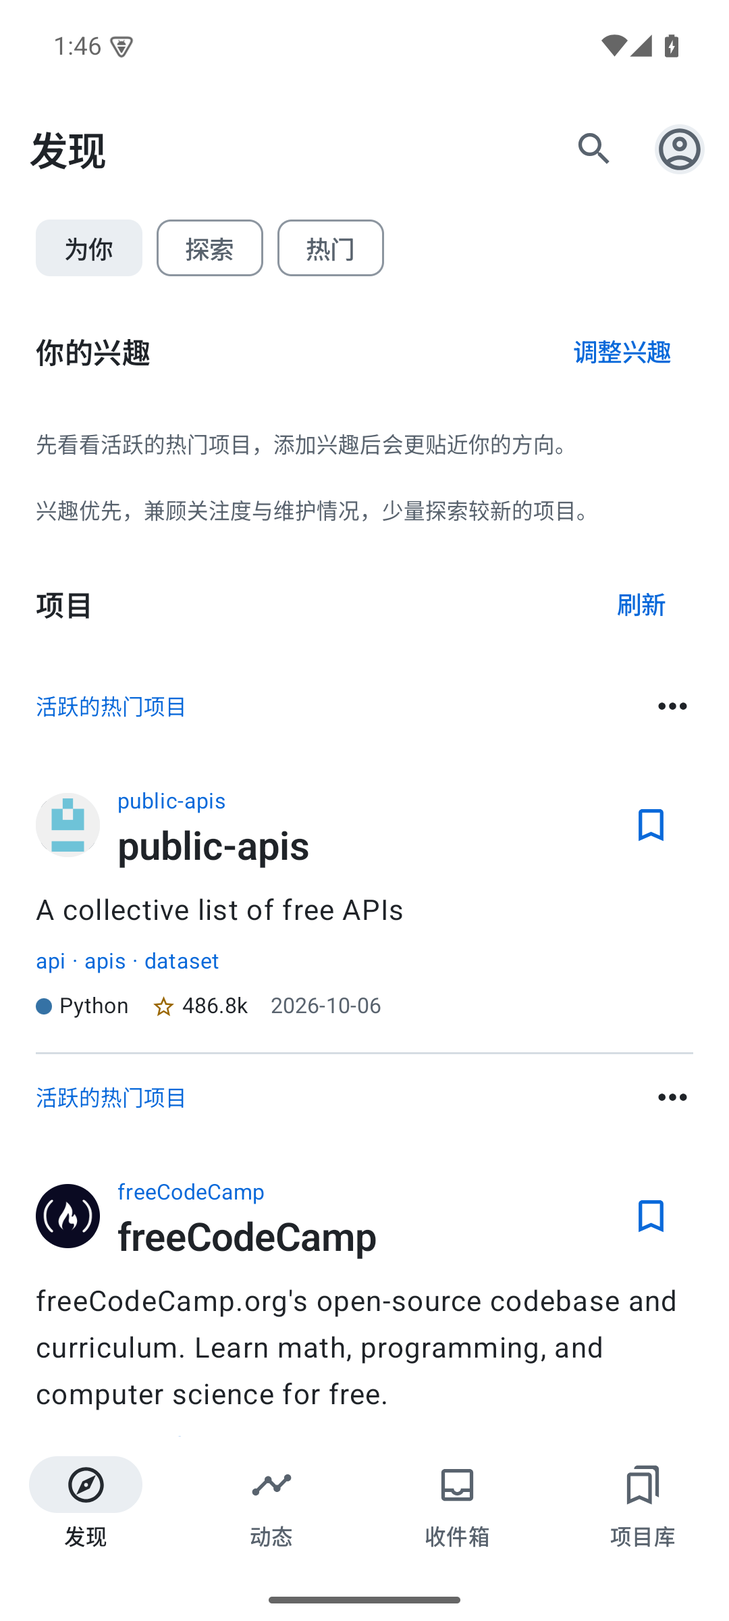
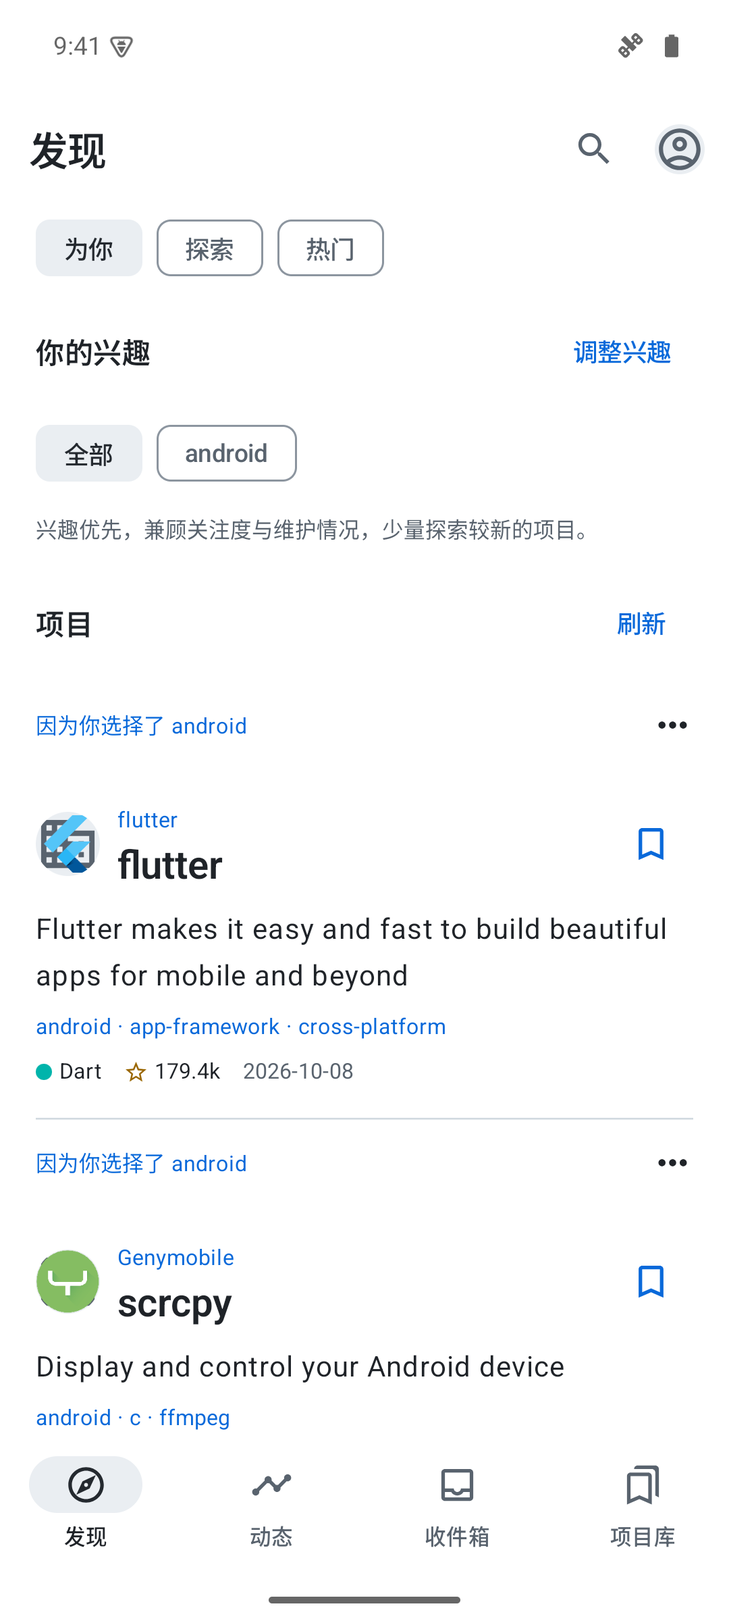
docs: rewrite product README and refresh app screenshots [skip ci]

diff --git a/README改写审阅稿.md b/README改写审阅稿.md
@@ -1,0 +1,150 @@
+# README 改写方案与审阅稿
+
+日期：2026-10-08。本文保留审阅时的写作方案和候选文案。用户随后明确授权“写吧，截图你自己跑自己截吧，然后直接上传 readme 就行了”；正式正文见根目录 [README](./README.md)，本轮执行见文末。
+
+## 写作方向
+
+RepoRove 的整体定位应先讲清楚：**一个用于发现、浏览和管理 GitHub 项目的 Android 客户端。**
+
+优先面向经常找开源项目、阅读介绍、收藏项目和下载软件的人，同时向需要查看仓库活动、通知、Issue、PR 和构建情况的人说明已有能力。文档与代码阅读、离线保存、可调整的布局是产品特色；这些特色应该放在完整的 GitHub 使用流程里介绍。
+
+现在的 README 开头能说明一部分用途，但正文受最近修复影响过重：
+
+- 阅读细节占了多个段落，搜索没有独立介绍，动态和收件箱挤在结尾的功能段里。首次访问者很容易只把它理解为 README 阅读器。
+- “章节跳转、返回恢复、复制整个文件、分段显示”等内容主要回答已有用户的问题，缺少让新用户理解整体用途的层次。
+- 六张截图中，README、文件树、代码占了三张，加上仓库概览共四张偏向阅读；项目库、搜索、动态没有展示，图片也放大了这种失衡。
+- “AI 已移除”、本轮机型验收状态、开发签名和固定提交等信息混入产品介绍，让介绍像一次交付说明。
+
+新的 README 应让读者依次知道：它是什么 → 手机里大概长什么样 → 能帮我做哪些事 → 怎么安装和开始使用 → 当前范围与反馈方式。
+
+## 内容结构与权重
+
+| 位置 | 要回答的问题 | 写法 |
+| --- | --- | --- |
+| 首屏 | 这是什么，我为什么要看下去？ | 一句定位、两句用途，紧接下载入口；Android 10+、预览版、MIT 作为少量状态信息 |
+| 三张主要截图 | 这是个什么样的 App？ | 发现、仓库、项目库，覆盖寻找、了解和回访；每张用简短的页面说明 |
+| 主要功能 | 我能用它做什么？ | 六组：发现与搜索、仓库与阅读、收藏与回访、动态与通知、下载与离线、外观与布局 |
+| 开始使用 | 安装后能不能直接用？ | APK 下载；公开浏览可不登录；账号功能的 PAT 登录另有指南 |
+| 当前阶段 | 现在适不适合我？ | 简短说明预览状态、以浏览和阅读为主、现有登录方式；具体边界引导到指南 |
+| 反馈与贡献 | 怎么参与？ | Issues、贡献指南、更新记录，正文不放开发过程和内部验收记录 |
+| 许可 | 可否使用和修改？ | MIT 与第三方许可链接 |
+
+主文案以日常任务为单位，避免按最近的版本改动组织。六组功能采用相同长度和语气，每组说明用途与代表性能力，不逐项讲按钮。目标是让读者扫一遍就能知道发现、搜索、仓库、项目库、动态、收件箱和设置分别承担什么。
+
+## 截图安排
+
+- 首轮三张主图建议为“发现 / 仓库 / 项目库”。现有发现和仓库图可复用；项目库图应在方案确认后从实际 App 补截，不用设计稿冒充。
+- 阅读和离线代码各保留一张，可放在对应功能附近，或者收入使用指南。主题对照可在有合适实际截图后补充，不作为当前重写的前置条件。
+- 不把六张竖屏截图全部堆在开头。第一组只建立整体印象，局部图帮助解释特色。GitHub 窄屏浏览时也要检查图片与文字大小。
+- 下方文案草稿为便于本次审阅，暂用已有“发现 / 仓库 / 文件树”三张真实图。文件树是临时第三图，最终图位仍建议换成项目库。
+
+## 文档之间的分工
+
+| 内容 | 适合放在哪里 |
+| --- | --- |
+| 产品定位、功能、截图、下载 | README |
+| 登录步骤、详细操作、权限和功能边界 | 使用指南 |
+| 每版新增、修复、移除 | CHANGELOG / Releases |
+| 构建、测试、技术结构 | CONTRIBUTING / 工程说明 |
+| 用户讨论、验证证据与批次状态 | 历史记录和文档索引 |
+
+移除功能不再占 README 的主要篇幅。详细技术限制保留在指南，README 只保留影响是否安装的关键范围。公开替换前仍要核对文字与当前能力一致，例如已记录的“打开下载文件无反应”问题，草稿不承诺该操作已经可靠可用。
+
+## 候选 README 文案
+
+以下是供审阅的完整候选正文。正式替换时不包含上面的讨论、图片待办与写作说明。
+
+---
+
+<div align="center">
+
+# RepoRove
+
+**在 Android 上发现、浏览和收藏 GitHub 项目。**
+
+找感兴趣的开源项目，读文档与代码，下载发布版本，把想继续看的项目留在手边。也可以查看关注动态、GitHub 通知，以及 Issue、PR 和构建情况。
+
+[下载 APK](https://github.com/zurrll/RepoRove/releases) · [使用指南](docs/使用指南.md) · [更新记录](CHANGELOG.md) · [反馈问题](https://github.com/zurrll/RepoRove/issues)
+
+Android 10+ · 预览版 · MIT 开源
+
+</div>
+
+## 看看界面
+
+<table>
+<tr>
+<td align="center"><img src="docs/images/discover.png" width="240" alt="RepoRove 发现页面"><br><b>发现项目</b></td>
+<td align="center"><img src="docs/images/repository.png" width="240" alt="RepoRove 仓库概览"><br><b>了解仓库</b></td>
+<td align="center"><img src="docs/images/code-tree.png" width="240" alt="RepoRove 文件树"><br><b>浏览文件</b></td>
+</tr>
+</table>
+
+截图来自实际 Android App。
+
+## 主要功能
+
+### 发现与搜索
+
+通过主题、精选合集和热门项目寻找新的兴趣，也可以填写自己的兴趣，浏览 RepoRove 的“为你”推荐。搜索覆盖仓库、代码、Issue、PR、用户与组织等内容，按需选择语言、范围、状态和排序；熟悉 GitHub 查询语法时，也能直接输入。
+
+主题和合集目录来自 GitHub Explore；“为你”由 RepoRove 根据兴趣生成，“热门”使用 GitHub API 排序。
+
+### 仓库与阅读
+
+查看项目介绍、语言占比、README、发布版本，以及作者和组织主页。Markdown 默认以阅读模式呈现，文件树帮助浏览目录与源码；代码阅读提供行号、高亮、文件内查找和跳行。想进一步了解项目时，还可以查看提交记录、Issue、PR 讨论、文件差异和 Actions 详情。
+
+### 收藏与回访
+
+把准备阅读的项目加入“稍后看”，或者 Star 到 GitHub 账号。“项目库”集中提供稍后看、我的仓库、Star、下载以及离线与最近阅读入口，方便找回之前看过或保存的内容。
+
+### 动态与通知
+
+在 App 内跟踪项目，集中浏览它们近期的公开活动；登录后也能查看关注用户的动态。收件箱用于阅读 GitHub 通知，并标记已读或完成。稍后看用于留待阅读，跟踪用于持续关注项目，两者分别管理。
+
+### 下载与离线
+
+查看 Release 版本说明，下载公开发布附件或源码归档，在下载页查看进度和管理文件。
+
+需要断网阅读时，可以把仓库资料和源码保存到 App，两者可分别选择。保存后，从项目库打开本机 README、文件树和文本代码。下载到系统目录的文件和 App 内的离线仓库分别管理。
+
+### 外观与布局
+
+提供清晰、纸感两种主题，以及浅色、深色和跟随系统模式；字号和列表密度也能调整。底部导航、启动页面、仓库栏目和概览模块可按习惯安排，少用的栏目收进“更多”，所有仓库共用一套配置。
+
+## 开始使用
+
+1. 到 [Releases](https://github.com/zurrll/RepoRove/releases) 选择最新预览版，下载 APK 并安装到 Android 手机上。
+2. 不登录也能浏览公开项目。需要 Star、我的仓库、组织和收件箱时，可使用 GitHub 访问令牌登录，步骤见 [登录说明](docs/使用指南.md#登录与账号)。
+3. 从发现或搜索打开一个项目，按需要阅读、收藏、下载，或保存到离线仓库。
+
+已有同签名预览版可以覆盖安装。历史安装包和每版更新说明也在 Releases 中提供。
+
+## 当前阶段
+
+RepoRove 正在持续完善，目前提供 Android 预览版 APK，以项目浏览、阅读、收藏和查看活动为主。评论提交、PR 审核和构建重跑等操作尚未完整支持；账号功能目前通过访问令牌登录。详细范围和离线保存说明见 [使用指南](docs/使用指南.md)。
+
+这是独立的 GitHub 客户端，与 GitHub 官方没有隶属关系。
+
+## 反馈与贡献
+
+欢迎通过 [Issues](https://github.com/zurrll/RepoRove/issues) 分享问题和建议。反馈时附上 App 版本、设备与系统、操作步骤和实际表现，截图请遮住私人信息。
+
+想参与开发，可阅读 [贡献指南](CONTRIBUTING.md)；想了解每版变化，可查看 [更新记录](CHANGELOG.md)。
+
+## 许可
+
+RepoRove 使用 [MIT License](LICENSE)。第三方内容与依赖的许可见 [致谢与第三方说明](THIRD_PARTY_NOTICES.md)。
+
+---
+
+## 审阅重点
+
+优先审整体定位、功能分组和首页叙述是否符合你想呈现的产品。细节措辞、截图补齐和 GitHub 实际展示检查放在方向确认后处理。本轮仅准备方案与草稿；没有改产品代码、根目录 README 或公开内容，也没有构建安装包。
+
+## 授权后的执行跟进（2026-10-08）
+
+- 按审阅方案重写根目录 README，突出整个 GitHub 项目的发现、浏览和管理流程，提供六组主要功能、安装入口、当前范围和反馈方式。
+- 重新运行已发布的 0.6.0 安装包，用真实 GitHub 内容截取六张界面。主要截图为发现、仓库、项目库；搜索、README 和展开的文件树放入可展开区域。来源见 [截图记录](./docs/images/README.md)。
+- 图片采用固定可读宽度，宽屏并排、窄屏自动换行。通过 GitHub Markdown API 渲染正文，使用下载的 GitHub 样式检查 1280 与 390 像素宽度的本地预览；图片加载、折叠展示和正文无横向溢出通过检查。本地预览不冒充线上页面检查。
+- 本地图片完整性与 README 相对链接检查通过。本轮按用户明确授权同步文档和截图，不修改产品代码、不构建或发布 APK。

diff --git a/README.md b/README.md
@@ -2,81 +2,91 @@
 
 # RepoRove
 
-**把 GitHub 装进你的阅读日常。**
+**在 Android 上发现、浏览和收藏 GitHub 项目。**
 
-发现感兴趣的项目，读懂文档和代码，保存下来，随时接着看。
+找感兴趣的开源项目，读文档与代码，下载发布版本，把想继续看的项目留在手边。也可以查看关注动态、GitHub 通知，以及 Issue、PR 和构建情况。
 
-[下载安装](https://github.com/zurrll/RepoRove/releases/tag/v0.6.0) · [使用指南](docs/使用指南.md) · [更新记录](CHANGELOG.md) · [反馈问题](https://github.com/zurrll/RepoRove/issues)
+[下载 APK](https://github.com/zurrll/RepoRove/releases) · [使用指南](docs/使用指南.md) · [更新记录](CHANGELOG.md) · [反馈问题](https://github.com/zurrll/RepoRove/issues)
 
-Android 10+ · 原生 Android · 清晰 / 纸感主题 · MIT 开源
+Android 10+ · 预览版 · MIT 开源
 
 </div>
 
-## 看看它的样子
+## 看看界面
 
-<table>
-<tr>
-<td align="center"><img src="docs/images/repository.png" width="250" alt="RepoRove 仓库概览：项目介绍、语言和 README"><br><b>认识一个项目</b></td>
-<td align="center"><img src="docs/images/readme.png" width="250" alt="RepoRove README 阅读：清楚的文字、链接与内容层次"><br><b>专心读文档</b></td>
-<td align="center"><img src="docs/images/code-tree.png" width="250" alt="RepoRove 离线文件树：目录层次与当前文件"><br><b>随时翻源码</b></td>
-</tr>
-<tr>
-<td align="center"><img src="docs/images/discover.png" width="250" alt="RepoRove 发现页面"><br><b>发现下一份兴趣</b></td>
-<td align="center"><img src="docs/images/profile.png" width="250" alt="RepoRove 组织主页"><br><b>看看谁在创造</b></td>
-<td align="center"><img src="docs/images/code.png" width="250" alt="RepoRove 断网读取源码，正文与行号分开"><br><b>断网也能接着读</b></td>
-</tr>
-</table>
+<p align="center">
+<img src="docs/images/discover.png" width="240" alt="发现项目：根据 Android 兴趣浏览推荐">&nbsp;
+<img src="docs/images/repository.png" width="240" alt="了解仓库：项目介绍、语言与 README">&nbsp;
+<img src="docs/images/library.png" width="240" alt="收藏与回访：项目库的稍后看与个人项目入口">
+</p>
 
-截图来自实际 Android App，使用 GitHub 上的公开项目；网络内容会随项目更新。
+<p align="center"><b>发现项目 · 了解仓库 · 收藏与回访</b></p>
 
-## 你可以用它做什么
+截图来自实际运行的 Android App，展示 GitHub 公开项目。
 
-### 发现值得打开的仓库
+## 主要功能
 
-浏览 GitHub 官方主题与精选合集，用热门排序找项目，也可以在“为你”填写自己的兴趣。兴趣支持自由输入；不感兴趣的推荐可以调整和撤销。官方目录和 App 的兴趣推荐有清楚的来源区分。
+### 发现与搜索
 
-### 让项目介绍更容易读
+通过主题、精选合集和热门项目寻找新的兴趣，也可以填写自己的兴趣，浏览 RepoRove 的“为你”推荐。搜索覆盖仓库、代码、Issue、PR、用户与组织等内容，按需选择语言、范围、状态和排序；熟悉 GitHub 查询语法时，也能直接输入。
 
-README 和其他 Markdown 默认用阅读模式打开。标题、粗体、链接、表格、代码块各有层次；宽表格和长代码块可以横向滑动。点章节跳到对应位置，点文档链接继续阅读，返回后接着看原来的地方。
+主题和合集目录来自 GitHub Explore；“为你”由 RepoRove 根据兴趣生成，“热门”使用 GitHub API 排序。
 
-### 在手机上找文件、看代码
+### 仓库与阅读
 
-一行一个文件或目录，随时呼出文件树，切换最近打开的文件。文本代码有行号和基础语法高亮，支持换行、全文查找与跳行。长文件分段显示，“复制整个文件”复制完整原文，选字复制只复制你的选区。
+查看项目介绍、语言占比、README、发布版本，以及作者和组织主页。Markdown 默认以阅读模式呈现，文件树帮助浏览目录与源码；代码阅读提供行号、高亮、文件内查找和跳行。想进一步了解项目时，还可以查看提交记录、Issue、PR 讨论、文件差异和 Actions 详情。
 
-### 保存以后要读的内容
+### 收藏与回访
 
-“稍后看”是待阅读清单，GitHub Star 是账号里的收藏，App 内跟踪把项目后续活动汇总到动态页。项目库还可以访问我的仓库、Star、下载以及最近阅读。
+把准备阅读的项目加入“稍后看”，或者 Star 到 GitHub 账号。“项目库”集中提供稍后看、我的仓库、Star、下载以及离线与最近阅读入口，方便找回之前看过或保存的内容。
 
-### 把仓库带到离线环境
+### 动态与通知
 
-资料和源码可以分开保存，也可以一起保存。下载完成后，断网打开本机快照，继续读 README、看目录和文本代码；联网后可以更新快照。离线保存固定在一个提交，方便知道自己读的是哪个版本。
+在 App 内跟踪项目，集中浏览它们近期的公开活动；登录后也能查看关注用户的动态。收件箱用于阅读 GitHub 通知，并标记已读或完成。稍后看用于留待阅读，跟踪用于持续关注项目，两者分别管理。
 
-### 跟上项目和作者
+### 下载与离线
 
-在 App 内看用户和组织主页、Issue、Pull Request、文件差异、Release 和 Actions。通知尽量打开对应的评论、评审或运行详情。先看版本说明，再下载公开附件；下载页能打开和删除文件。
+查看 Release 版本说明，下载公开发布附件或源码归档，在下载页查看进度和管理文件。
+
+需要断网阅读时，可以把仓库资料和源码保存到 App，两者可分别选择。保存后，从项目库打开本机 README、文件树和文本代码。下载到系统目录的文件和 App 内的离线仓库分别管理。
+
+### 外观与布局
+
+提供清晰、纸感两种主题，以及浅色、深色和跟随系统模式；字号和列表密度也能调整。底部导航、启动页面、仓库栏目和概览模块可按习惯安排，少用的栏目收进“更多”，所有仓库共用一套配置。
+
+<details>
+<summary>更多界面：搜索、文档与源码</summary>
+
+<p align="center">
+<img src="docs/images/search.png" width="240" alt="搜索项目：Termux 公开仓库的实际结果">&nbsp;
+<img src="docs/images/readme.png" width="240" alt="阅读文档：Termux Markdown 阅读界面">&nbsp;
+<img src="docs/images/code-tree.png" width="240" alt="浏览源码：展开的文件树与当前文件">
+</p>
+
+<p align="center"><b>搜索项目 · 阅读文档 · 浏览源码</b></p>
+
+</details>
 
 ## 开始使用
 
-1. 从 [最新预览版](https://github.com/zurrll/RepoRove/releases/tag/v0.6.0) 下载 `RepoRove-0.6.0-preview.apk`，在 Android 手机上安装。
-2. 不登录也能浏览公开项目。需要 Star、我的仓库、组织或收件箱时，在“我的”中添加 GitHub 访问令牌，具体步骤见 [登录说明](docs/使用指南.md#登录与账号)。
-3. 在“我的 → 设置”选择清晰或纸感主题、明暗模式和字号。底部导航、仓库栏目也可以按自己的习惯调整。
+1. 到 [Releases](https://github.com/zurrll/RepoRove/releases) 选择最新预览版，下载 APK 并安装到 Android 手机上。
+2. 不登录也能浏览公开项目。需要 Star、我的仓库、组织和收件箱时，可使用 GitHub 访问令牌登录，步骤见 [登录说明](docs/使用指南.md#登录与账号)。
+3. 从发现或搜索打开一个项目，按需要阅读、收藏、下载，或保存到离线仓库。
 
-已有同签名预览版可以覆盖安装。历史版本均在 [Releases](https://github.com/zurrll/RepoRove/releases) 提供，建议从最新版本开始。
+已有同签名预览版可以覆盖安装。历史安装包和每版更新说明也在 Releases 中提供。
 
-## 当前进度
+## 当前阶段
 
-RepoRove 处于预览阶段，当前版本 **0.6.0**。基础阅读与下载优先，持续积累体验反馈后集中改进。
+RepoRove 正在持续完善，目前提供 Android 预览版 APK，以项目浏览、阅读、收藏和查看活动为主。评论提交、PR 审核和构建重跑等操作尚未完整支持；账号功能目前通过访问令牌登录。详细范围和离线保存说明见 [使用指南](docs/使用指南.md)。
 
-- 目前提供 APK 安装，尚未上架应用商店。预览包沿用开发签名。
-- 当前发布包支持令牌登录；项目自己的浏览器 OAuth 登录尚未配置。
-- 主要面向普通 Android 手机，其他尺寸、系统以及一加 Ace 5 / ColorOS 16 的本轮真机回归仍待验证。
-- 离线源码不含 Git 历史、子模块和 LFS 实体；单个文本预览上限 1 MiB。公式和 Mermaid 图形暂以源码显示，复杂 GitHub 交互仍有边界。
-- AI 翻译已在 0.6.0 移除，先把阅读体验做好。
+这是独立的 GitHub 客户端，与 GitHub 官方没有隶属关系。
 
-更多使用边界见 [使用指南](docs/使用指南.md)。这是独立项目，与 GitHub 官方没有隶属关系。
+## 反馈与贡献
 
-## 一起改进
+欢迎通过 [Issues](https://github.com/zurrll/RepoRove/issues) 分享问题和建议。反馈时附上 App 版本、设备与系统、操作步骤和实际表现，截图请遮住私人信息。
 
-遇到问题请到 [Issues](https://github.com/zurrll/RepoRove/issues) 写下版本、设备、操作步骤与实际结果，截图请遮住令牌和私有内容。欢迎分享真实使用体验，也欢迎提交改进。
+想参与开发，可阅读 [贡献指南](CONTRIBUTING.md)；想了解每版变化，可查看 [更新记录](CHANGELOG.md)。
 
-源码使用 [MIT License](LICENSE)。第三方目录与依赖保留各自许可，见 [致谢与第三方说明](THIRD_PARTY_NOTICES.md)。开发、构建和测试请看 [CONTRIBUTING](CONTRIBUTING.md)；历次产品讨论与验收记录收在 [文档索引](文档索引.md)。
+## 许可
+
+RepoRove 使用 [MIT License](LICENSE)。第三方内容与依赖的许可见 [致谢与第三方说明](THIRD_PARTY_NOTICES.md)。

diff --git a/待处理体验反馈.md b/待处理体验反馈.md
@@ -99,3 +99,20 @@
 0.6.0 本批实现和本地验证完成，Markdown 默认阅读（行号链接仅影响原文件），普通文件滑动、在线 / 离线链接定位与返回、全文复制、AI 移除及升级清理已覆盖回归。新增取消下载的时序修复，29 项设备、43 项单元及两项线上下载检查通过；正式 R8 包通过生产与实际断网流程。CI / 公开结果见本轮文档。
 
 本批公开结果：源码 CI 通过，MIT 仓库已公开，七个预览版本及安装包均已发布并完成远端 / 匿名下载校验。后续体验反馈继续先记录、积累后集中处理。
+
+## 发布后待积累反馈（2026-10-08）
+
+### 1. 下载完成后“打开文件”无反应
+
+- 用户现象：下载 Release 中的文件后，点击“打开文件”没有反应；删除正常。
+- 待复现信息：具体附件、文件类型和是否出现提示尚未确认。
+- 后续排查方向：系统文件打开调用、下载文件 URI 与读取权限、文件类型识别、可用的打开应用及失败提示。当前仅记录，不判断原因。
+- 状态：待积累、未实施。用户明确要求先记下，积累多项问题后再集中修复；本次不修改产品代码、不构建或发布 APK。
+
+### 2. README 需要围绕整个产品重新组织
+
+- 用户反馈：现有 README 过于受最近对话影响，没有讲到重点；要求从产品整体重新规划写法，并先由用户审阅。
+- 本轮处理：阅读现行 README、需求记录、使用指南及对应功能实现，准备 [README 改写方案与审阅稿](./README改写审阅稿.md)，明确产品定位、内容结构、截图安排与候选正文。
+- 状态：方案与草稿已准备，待用户审阅；根目录 README 和公开仓库内容未改，不修改产品代码、不出包。
+
+2026-10-08 后续授权与实施：用户明确要求按方案编写、自行运行截图并直接上传 README。已完成正文重写与六张实际 App 界面采集，并检查 GitHub Markdown 渲染、本地宽窄屏展示和链接 / 图片；本轮仅同步文档和截图，不修改产品代码、不发布 APK。第 1 项下载文件打开问题继续待积累。

diff --git a/docs/images/README.md b/docs/images/README.md
@@ -1,0 +1,18 @@
+# README 截图来源
+
+采集日期：2026-10-08。此次重新运行已发布的 RepoRove 0.6.0 预览安装包，截图来自 Android 15 / API 35 模拟器，分辨率 1080 × 2400，使用清晰浅色主题。
+
+| 图片 | 实际操作与内容 |
+| --- | --- |
+| [discover.png](./discover.png) | 填写 `android` 兴趣后，展示“为你”的真实项目推荐，包括 Flutter 和 scrcpy |
+| [repository.png](./repository.png) | 打开 Termux 仓库，展示简介、语言构成、仓库栏目与 README 预览 |
+| [library.png](./library.png) | 将 Termux、scrcpy 和 Flutter 加入本机稍后看，展示项目库与回访入口 |
+| [search.png](./search.png) | 搜索 `termux`，展示 GitHub 返回的公开仓库结果 |
+| [readme.png](./readme.png) | 打开 Termux README 的完整阅读界面 |
+| [code-tree.png](./code-tree.png) | 浏览 `app/src/main/AndroidManifest.xml`，展开文件树并显示当前文件 |
+
+所有项目内容均来自实际 App 访问的 GitHub 数据，没有使用演示接口、测试夹具或虚构账号；此次不登录账号，也不展示私有内容。系统状态栏使用 Android 演示模式统一时间；应用界面与内容未拼接或修改。
+
+截图中的项目：[Termux](https://github.com/termux/termux-app)、[scrcpy](https://github.com/Genymobile/scrcpy)、[Flutter](https://github.com/flutter/flutter)。项目内容和数据会随时间变化。
+
+本目录其余图片保留先前采集结果；以上六张用于当前根目录 README。

diff --git a/文档索引.md b/文档索引.md
@@ -7,6 +7,7 @@
 | 内容 | 文档 |
 | --- | --- |
 | 产品介绍与下载 | [README](./README.md) |
+| README 本轮写作方案与实际截图来源 | [改写审阅与执行记录](./README改写审阅稿.md)、[截图来源](./docs/images/README.md) |
 | 日常使用、登录与边界 | [使用指南](./docs/使用指南.md)、[隐私说明](./docs/隐私说明.md) |
 | 当前版本更新 | [CHANGELOG](./CHANGELOG.md)、[0.6.0 修复与公开发布](./0.6.0阅读修复与公开发布.md) |
 | 本阶段试用与公开预览发布 | [试用与发布计划](./试用与发布计划.md) |
